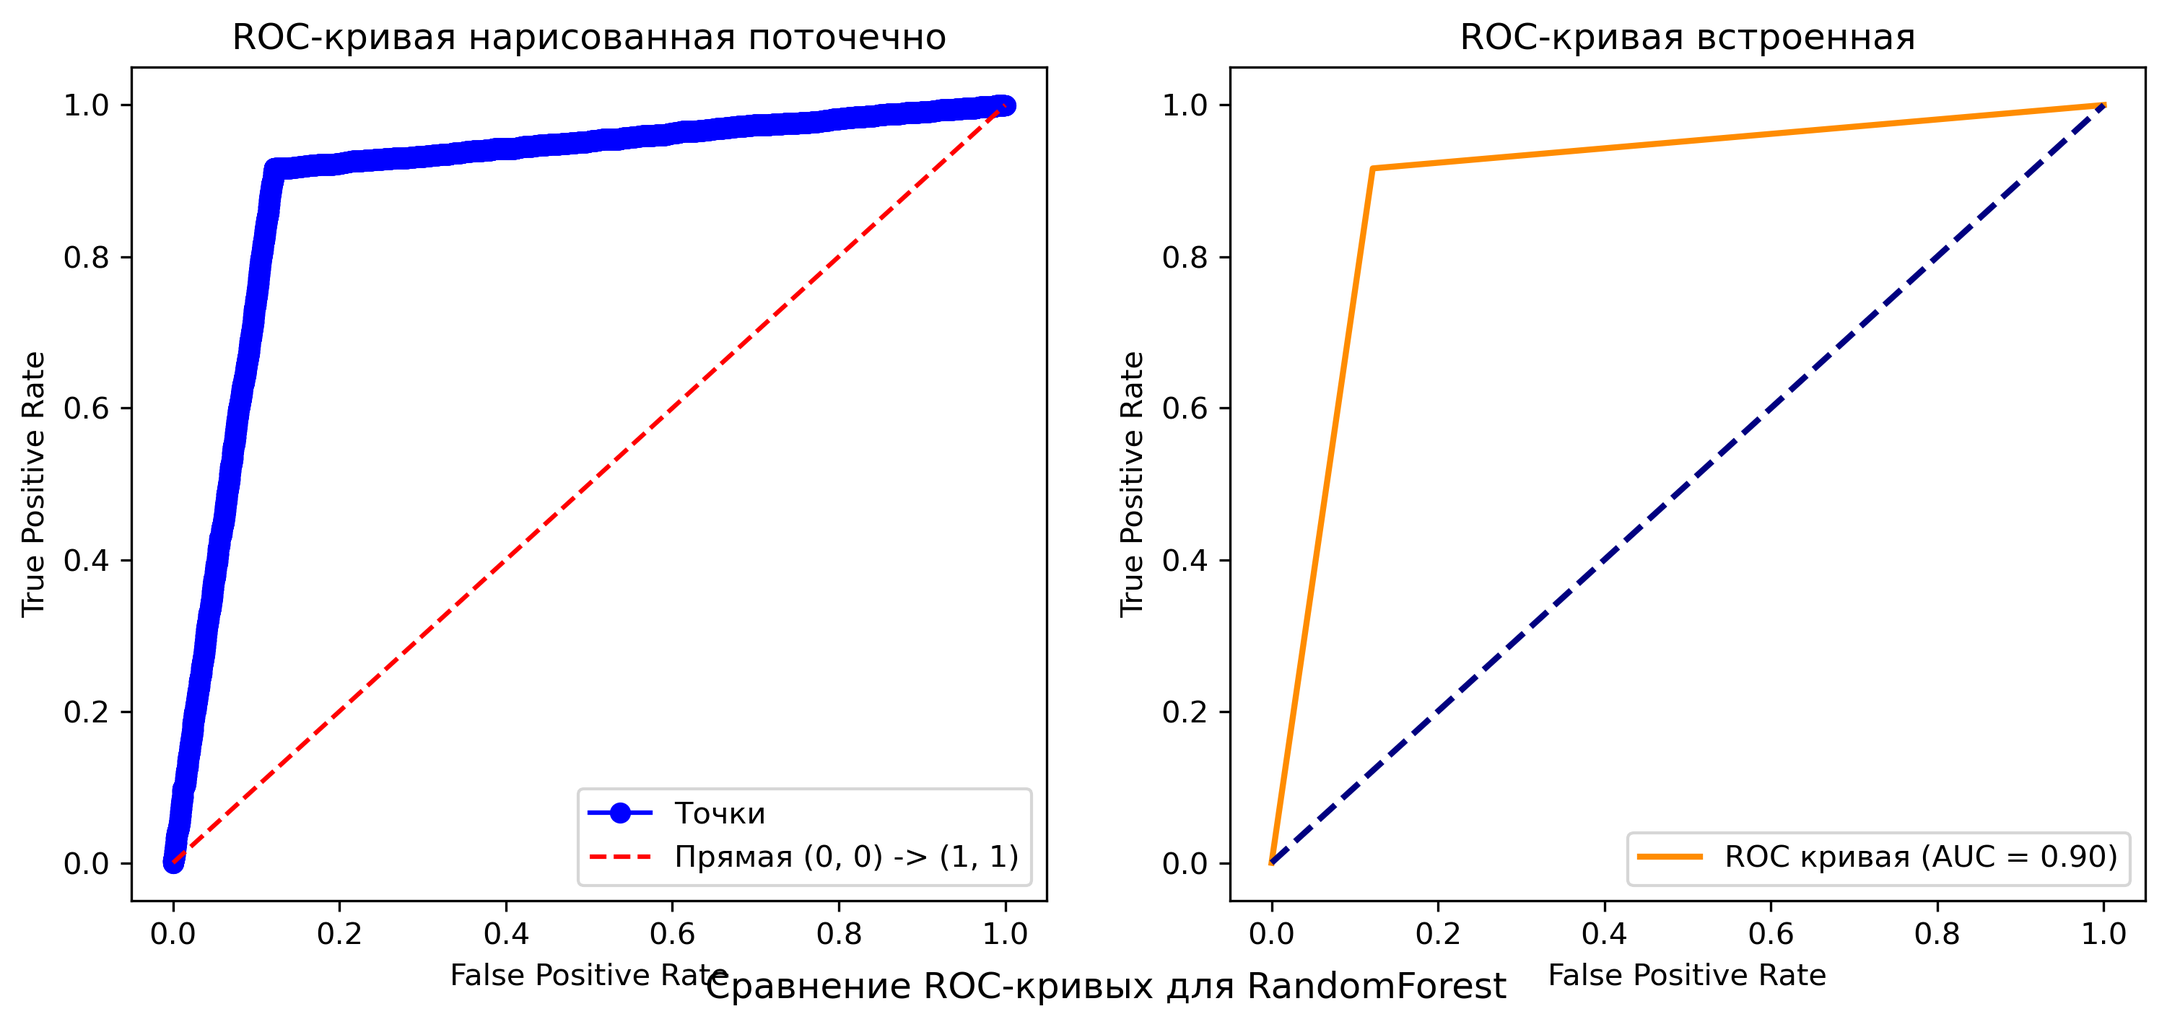
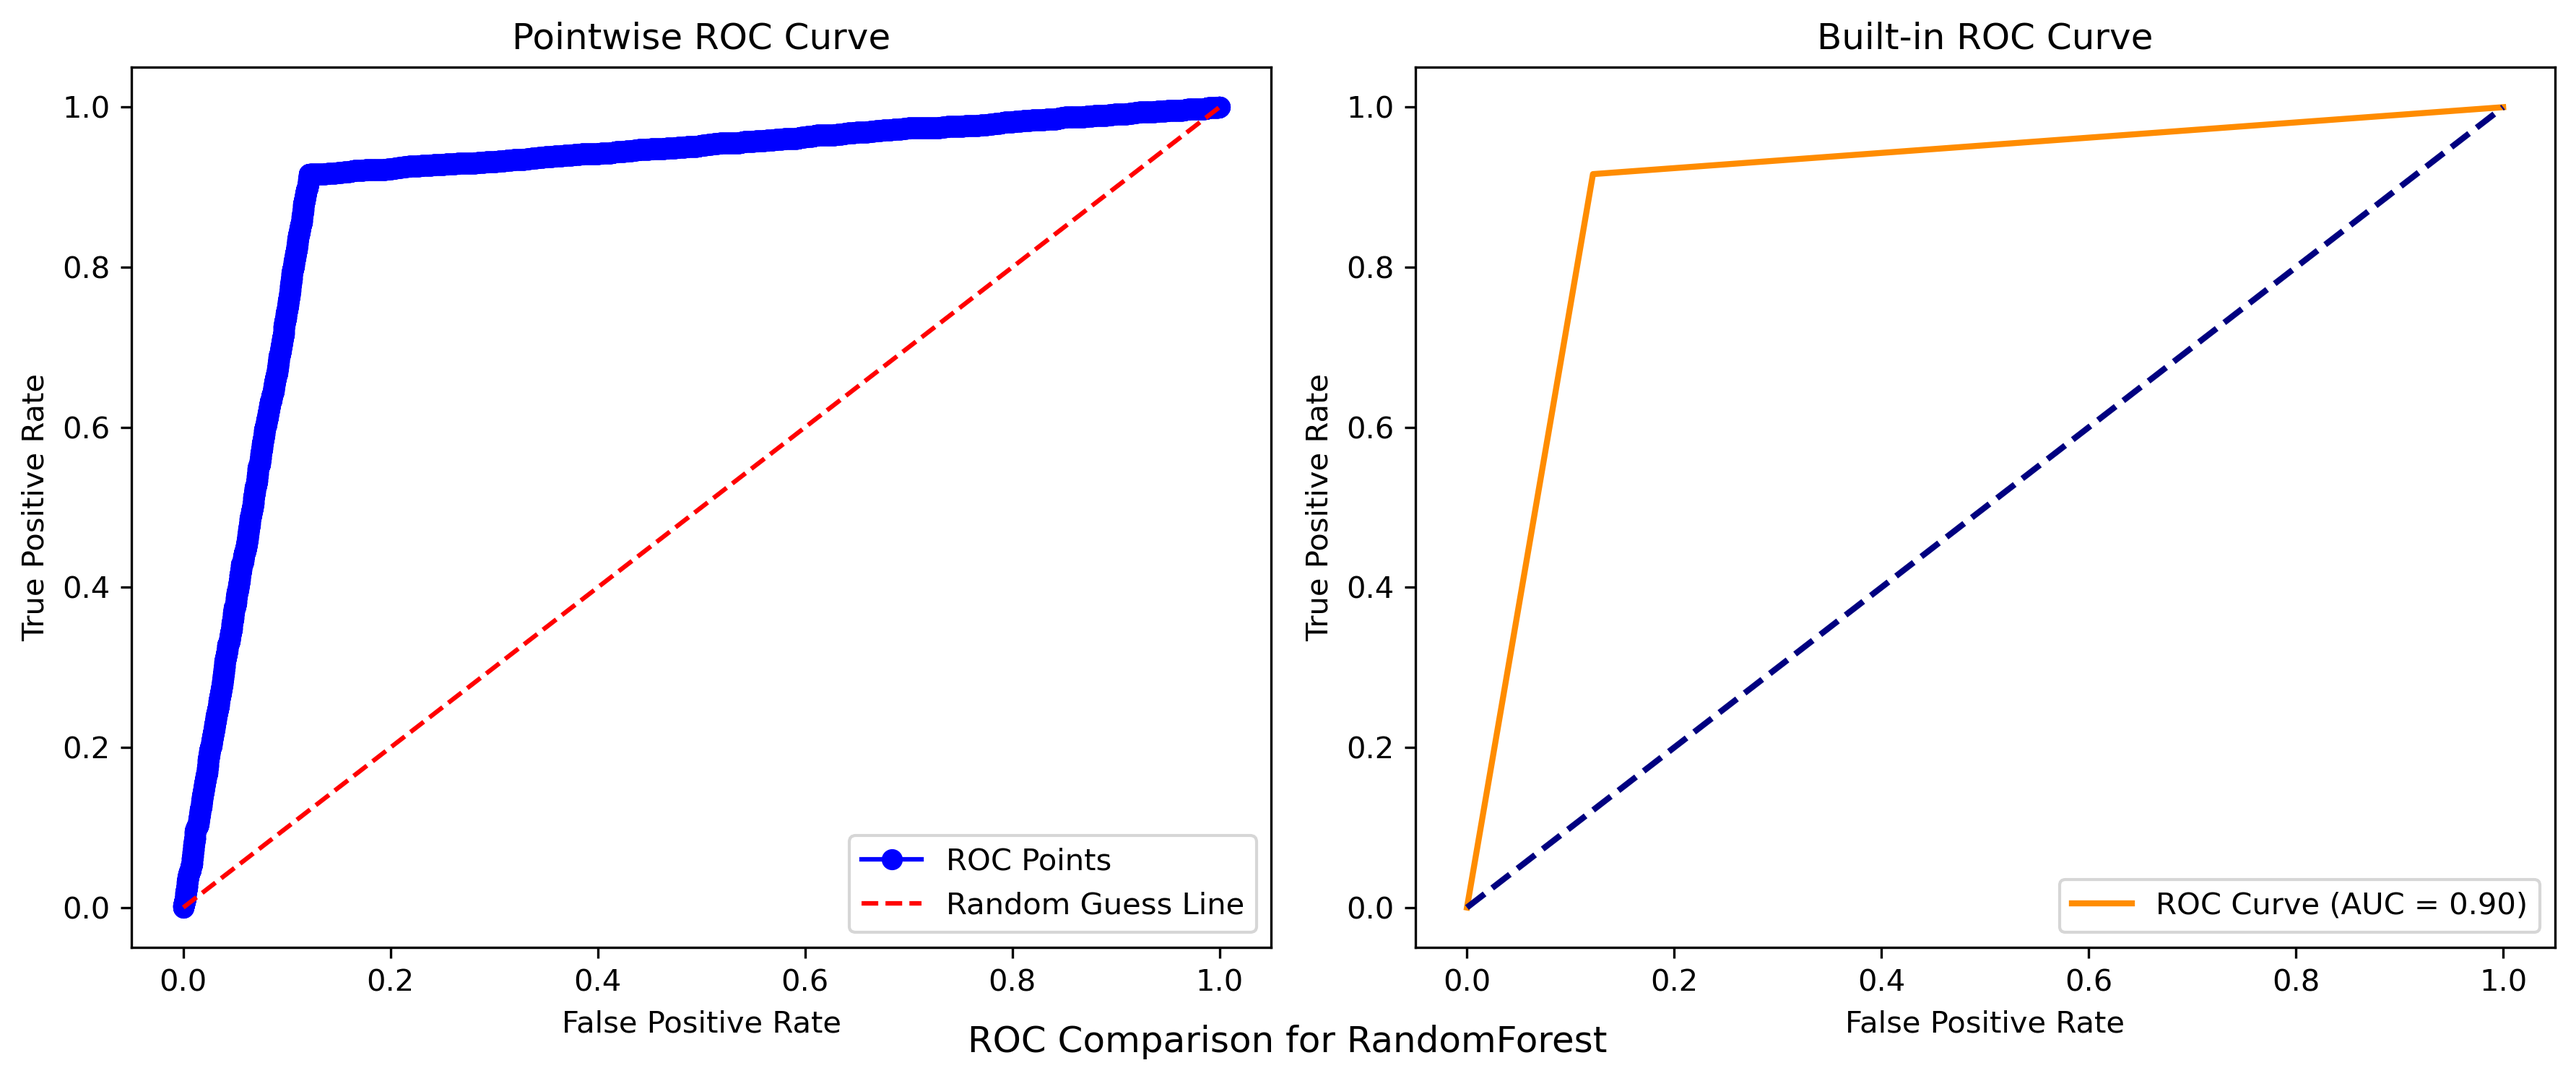
Improved the code structure and added comments

diff --git a/train_test.py b/train_test.py
@@ -9,99 +9,107 @@ from sklearn.svm import SVC
 from sklearn.ensemble import RandomForestClassifier
 import json
 
-def ROC_AUC(y_test, y_pred, model):
+# Function to plot ROC curve with points and calculate AUC
+def plot_roc_auc(y_test, y_pred, model):
     y_test = y_test.tolist()
     y_pred = y_pred.tolist()
 
+    # Count of 1's and 0's in y_test
     count_ones = y_test.count(1)
     count_zeros = y_test.count(0)
 
+    # Normalization factors for each class
     m = 1 / count_ones
     n = 1 / count_zeros
 
+    # Sorting by predicted values
     zipped = zip(y_test, y_pred)
     zipped_sorted = sorted(zipped, key=lambda x: x[1], reverse=True)
 
-    x = []
-    y = []
+    # Initialize lists for the ROC curve points
+    x = [0]  # First point is always (0, 0)
+    y = [0]  # First point is always (0, 0)
+
     x_cnt = 0
     y_cnt = 0
-    x.append(x_cnt)
-    y.append(y_cnt)
+
+    # Generate the ROC curve
     for test, pred in zipped_sorted:
         x_cnt += (n if test == 0 else 0)
         y_cnt += (m if test == 1 else 0)
         x.append(x_cnt)
         y.append(y_cnt)
 
-    fpr, tpr, thresholds = roc_curve(y_test, y_pred)
+    # Add the final point (1, 1) to ensure the last point is always (1, 1)
+    x.append(1)
+    y.append(1)
+
+    # Built-in ROC curve calculation
+    fpr, tpr, _ = roc_curve(y_test, y_pred)
     roc_auc = auc(fpr, tpr)
 
     fig, (ax1, ax2) = plt.subplots(1, 2, figsize=(12, 5))
 
-    ax1.plot(x, y, marker='o', linestyle='-', color='b', label='Точки')
-    ax1.plot([0, 1], [0, 1], linestyle='--', color='r', label='Прямая (0, 0) -> (1, 1)')
-    ax1.set_title('ROC-кривая нарисованная поточечно')
+    # Custom ROC curve with points
+    ax1.plot(x, y, marker='o', linestyle='-', color='b', label='ROC Points')
+    ax1.plot([0, 1], [0, 1], linestyle='--', color='r', label='Random Guess Line')
+    ax1.set_title('Pointwise ROC Curve')
     ax1.set_xlabel('False Positive Rate')
     ax1.set_ylabel('True Positive Rate')
     ax1.legend()
 
-    ax2.plot(fpr, tpr, color='darkorange', lw=2, label=f'ROC кривая (AUC = {roc_auc:.2f})')
+    # Built-in ROC curve
+    ax2.plot(fpr, tpr, color='darkorange', lw=2, label=f'ROC Curve (AUC = {roc_auc:.2f})')
     ax2.plot([0, 1], [0, 1], color='navy', lw=2, linestyle='--')
-    ax2.set_title('ROC-кривая встроенная')
+    ax2.set_title('Built-in ROC Curve')
     ax2.set_xlabel('False Positive Rate')
     ax2.set_ylabel('True Positive Rate')
     ax2.legend(loc="lower right")
 
-    fig.text(0.5, 0.02, f"Сравнение ROC-кривых для {model}", ha='center', fontsize=12)
-    plt.savefig(f'roc_curves_for_{model}.png', dpi=300, bbox_inches='tight')
-
+    fig.text(0.5, 0.02, f"ROC Comparison for {model}", ha='center', fontsize=12)
     plt.tight_layout()
+    plt.savefig(f'roc_curves_for_{model}.png', dpi=300, bbox_inches='tight')
     plt.show()
 
     return roc_auc
 
-def metrcics(y_pred, y_test, model):
+# Function to calculate classification metrics
+def metrics(y_pred, y_test, model):
     TP = ((y_pred == 1) & (y_test == 1)).sum()
     TN = ((y_pred == 0) & (y_test == 0)).sum()
     FP = ((y_pred == 0) & (y_test == 1)).sum()
     FN = ((y_pred == 1) & (y_test == 0)).sum()
 
     accuracy = (TP + TN) / (TP + TN + FP + FN)
-
-    precision = TP / (TP + FP)
-
-    recall = TP / (TP + FN)
-
-    F1 = (2 * precision * recall) / (precision + recall)
-
-    auc = ROC_AUC(y_test, y_pred, model)
+    precision = TP / (TP + FP) if TP + FP > 0 else 0
+    recall = TP / (TP + FN) if TP + FN > 0 else 0
+    F1 = (2 * precision * recall) / (precision + recall) if precision + recall > 0 else 0
+    auc = plot_roc_auc(y_test, y_pred, model)
 
     results = {
-        f"Accuracy for {model}": accuracy,
-        f"Precision for {model}": precision,
-        f"Recall for {model}": recall,
-        f"F1 for {model}": F1,
-        f"ROC-AUC: ": auc
+        f"Accuracy": f"{accuracy:.3f}",
+        f"Precision": f"{precision:.3f}",
+        f"Recall": f"{recall:.3f}",
+        f"F1": f"{F1:.3f}",
+        f"ROC-AUC: ": f"{auc:.3f}"
     }
 
     return results
 
-
+# Loading dataset
 filename = 'update_df.csv'
 df = pd.read_csv(filename)
 results = {}
 
-test_df = df.drop(['loan_status'], axis=1)
-
 X = df.drop(['loan_status'], axis=1)
-y = df.loc[:, 'loan_status']
+y = df['loan_status']
 
 numeric_features = X.select_dtypes(include=['int64', 'float64']).columns
 categorical_features = X.select_dtypes(include=['object']).columns
 
-numeric_transformer = StandardScaler()  # Стандартизация числовых признаков
-categorical_transformer = OneHotEncoder()  # Кодирование категориальных признаков
+# Preprocessing pipeline
+numeric_transformer = StandardScaler()  # Standardizing numeric features
+categorical_transformer = OneHotEncoder()  # Encoding categorical features
 
 preprocessor = ColumnTransformer(
     transformers=[
@@ -110,46 +118,41 @@ preprocessor = ColumnTransformer(
     ]
 )
 
+# Train-test split
 X_train, X_test, y_train, y_test = train_test_split(X, y, test_size=0.33, stratify=y, random_state=101)
 
+# Applying preprocessing
 X_train_processed = preprocessor.fit_transform(X_train)
 X_test_processed = preprocessor.transform(X_test)
 
-"""Logistic Regression"""
+# Logistic Regression Model
 LR = LogisticRegression(
     penalty='l2',
     C=1.0,
     solver='liblinear',
-    tol=10**-4,
+    tol=1e-4,
     multi_class='auto',
     class_weight='balanced',
     random_state=101
 )
-
 LR.fit(X_train_processed, y_train)
-
 y_pred = LR.predict(X_test_processed)
-y_pred_proba = LR.predict_proba(X_test_processed)[:, 1] # Вероятность для 1 класса
+results['Logistic Regression'] = metrics(y_pred, y_test, 'Logistic Regression')
 
-results['Logistic Regression'] = metrcics(y_pred, y_test, 'Logistic Regression')
-
-"""SVM"""
-SVC = SVC(
+# Support Vector Classifier Model
+svc = SVC(
     C=1.0,
     kernel='rbf',
-    tol=10**-4,
+    tol=1e-4,
     gamma='scale',
     probability=True,
     random_state=42
 )
+svc.fit(X_train_processed, y_train)
+y_pred = svc.predict(X_test_processed)
+results['SVC'] = metrics(y_pred, y_test, 'SVC')
 
-SVC.fit(X_train_processed, y_train)
-y_pred = SVC.predict(X_test_processed)
-y_pred_proba = SVC.predict_proba(X_test_processed)[:, 1]
-
-results['SVC'] = metrcics(y_pred, y_test, 'SVC')
-
-"""Random Forest"""
+# Random Forest Classifier Model
 RFC = RandomForestClassifier(
     n_estimators=100,
     max_depth=10,
@@ -159,13 +162,11 @@ RFC = RandomForestClassifier(
     class_weight='balanced',
     random_state=101
 )
-
 RFC.fit(X_train_processed, y_train)
 y_pred = RFC.predict(X_test_processed)
-y_pred_proba = RFC.predict_proba(X_test_processed)[:, 1]
+results['RandomForest'] = metrics(y_pred, y_test, 'RandomForest')
 
-results['RandomForest'] = metrcics(y_pred, y_test, 'RandomForest')
-
-filename = 'results.csv'
+# Saving results
+filename = 'results.json'
 with open(filename, 'w', encoding='utf-8') as json_file:
     json.dump(results, json_file, ensure_ascii=False, indent=4)
